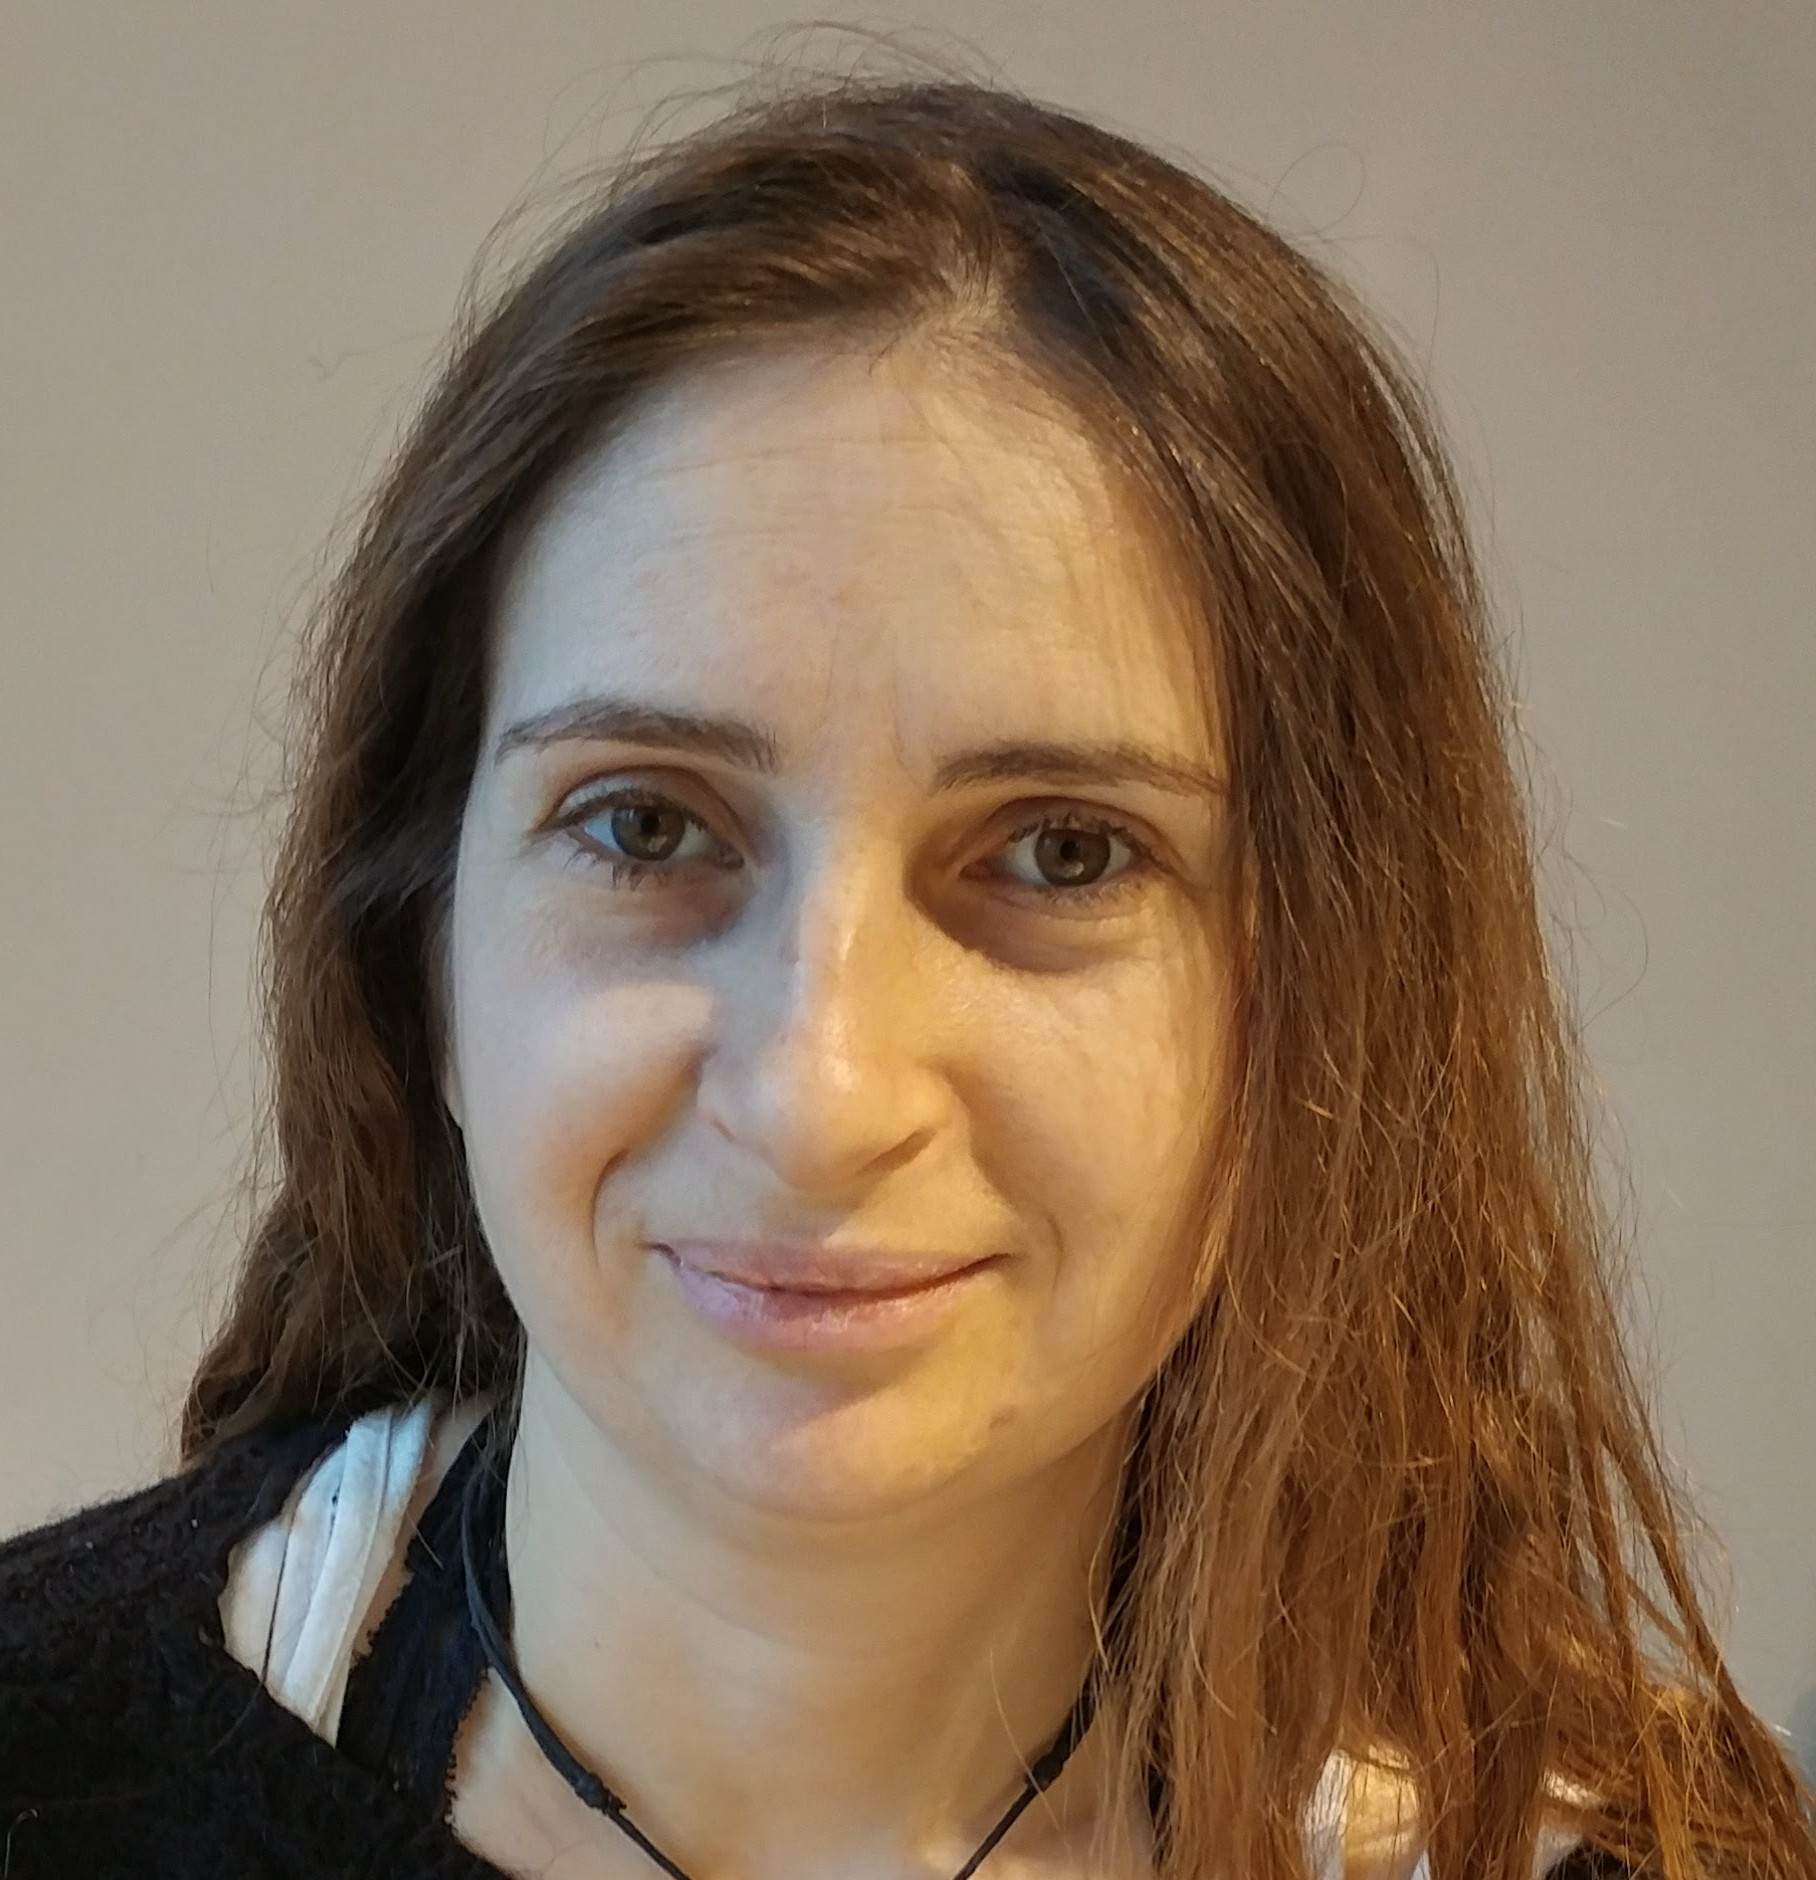
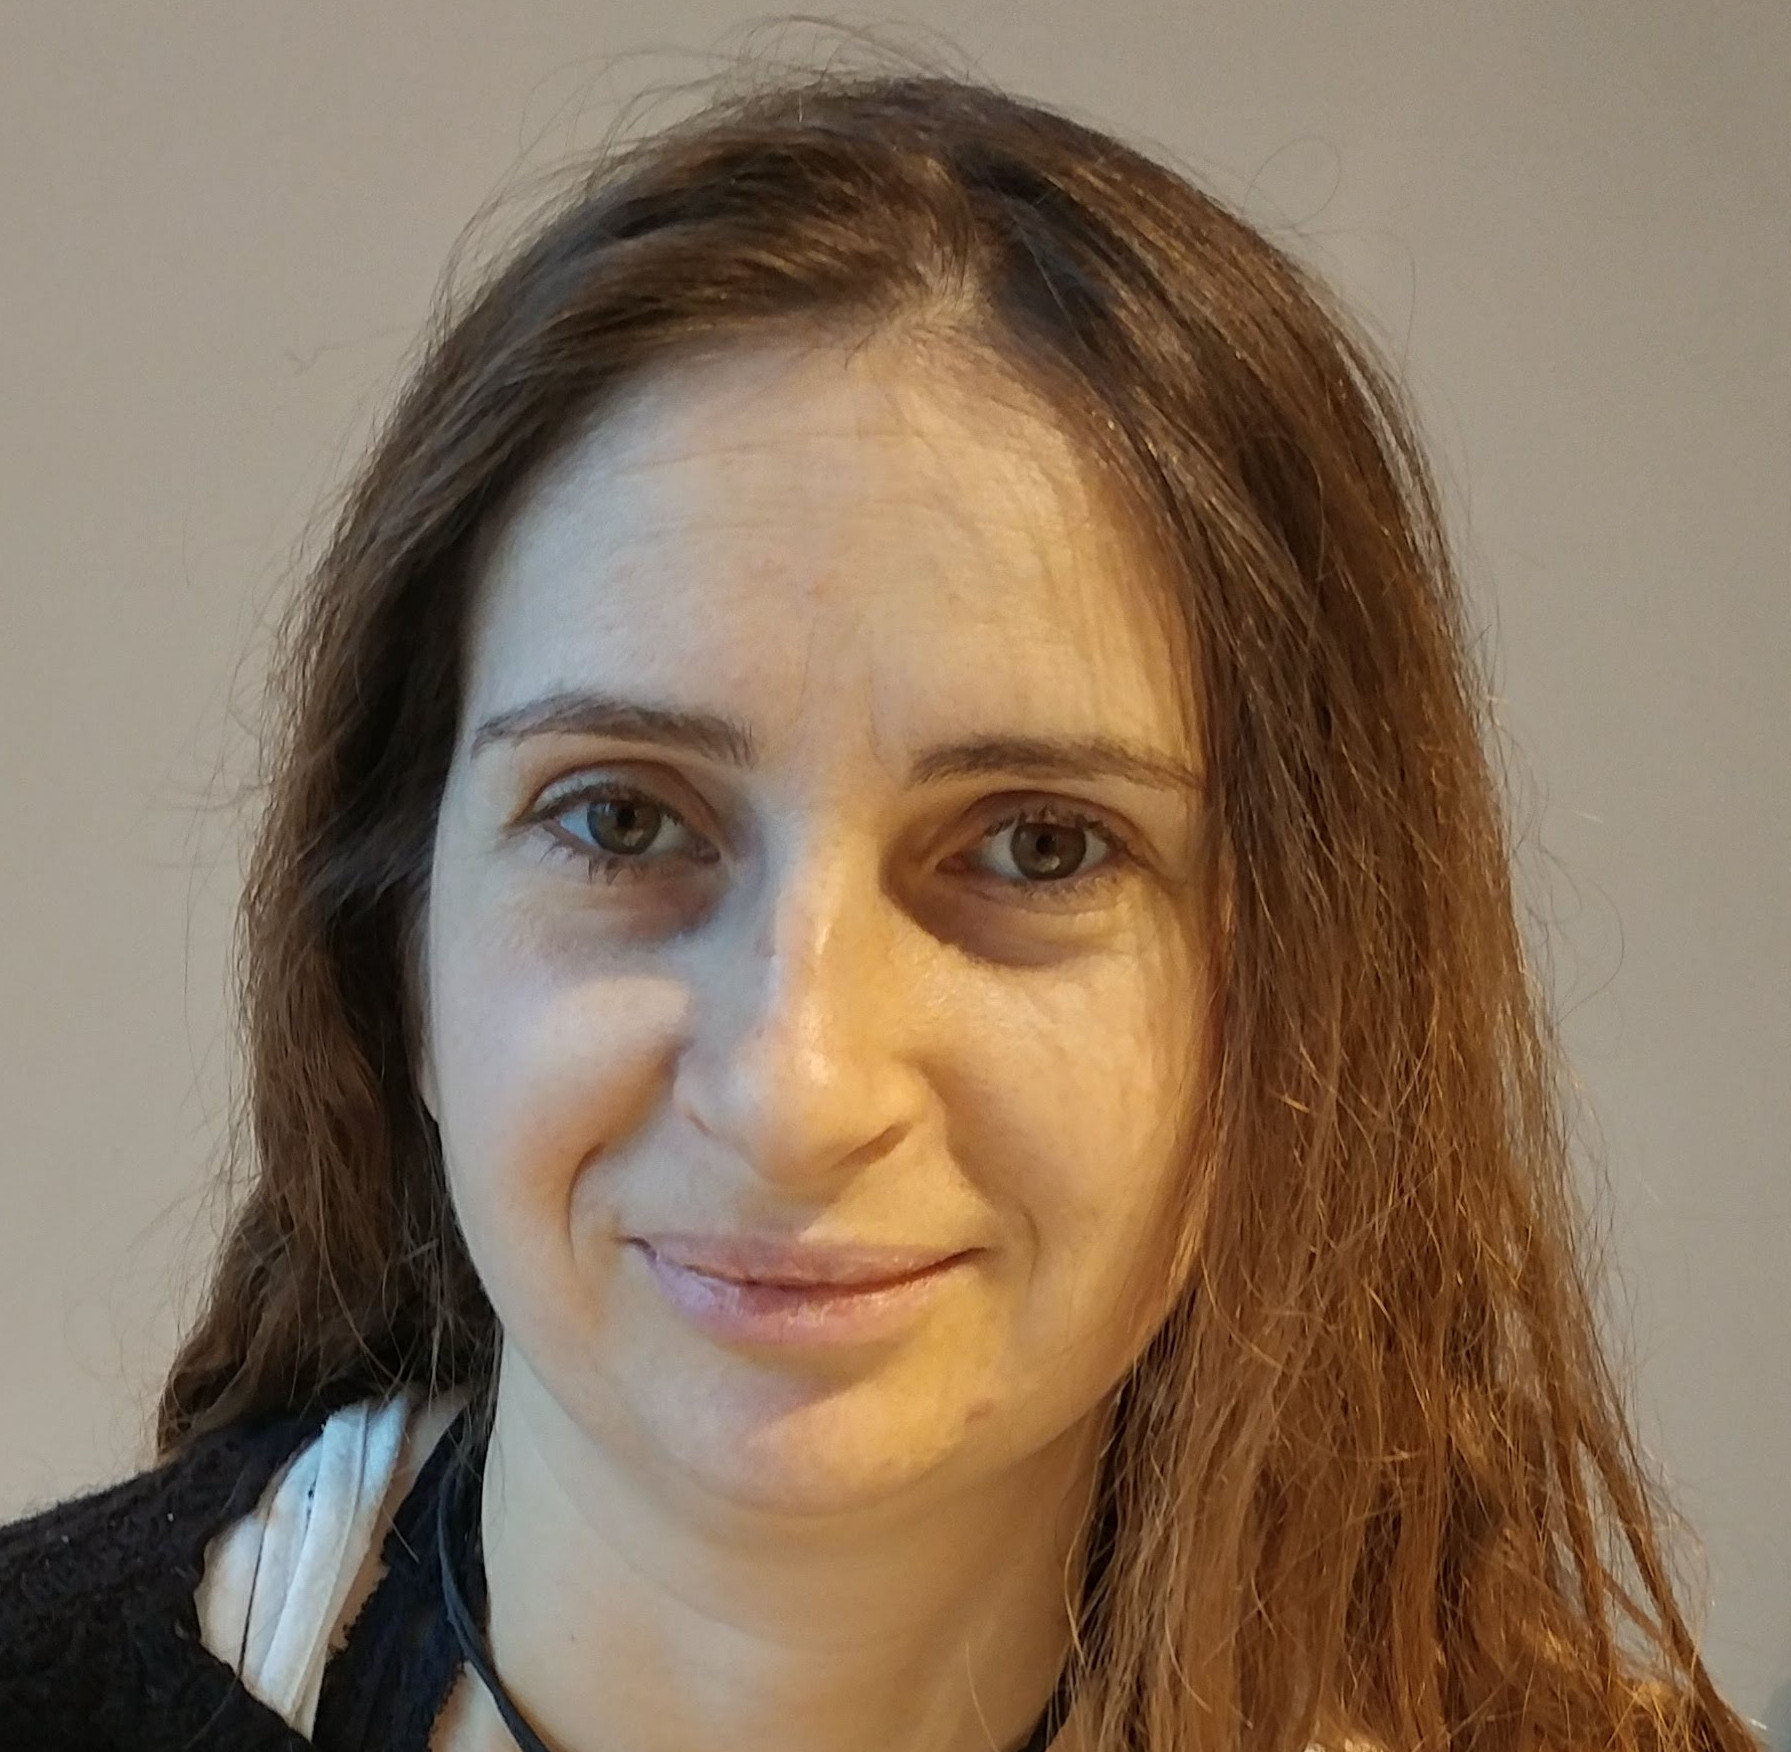
adjust image sizes

diff --git a/index.html b/index.html
@@ -231,7 +231,7 @@
 					<div class="col-sm-4" id="tutor">
 						<div class="team">
 							<div class="team-img">
-								<img class="img-responsive" src="./img/Christine-small.jpg" alt="">
+								<img class="img-responsive" src="./img/Christine-long.jpg" alt="">
 							</div>
 							<div class="team-content">
 								<h3>Christine Spindler</h3>
